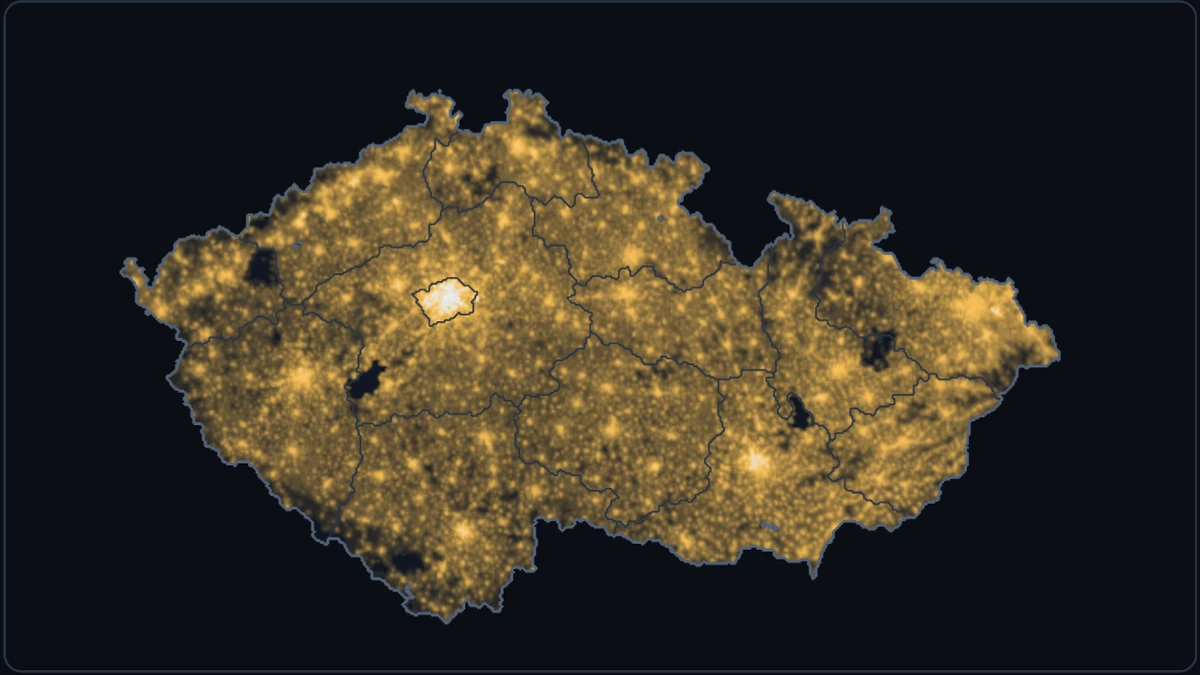
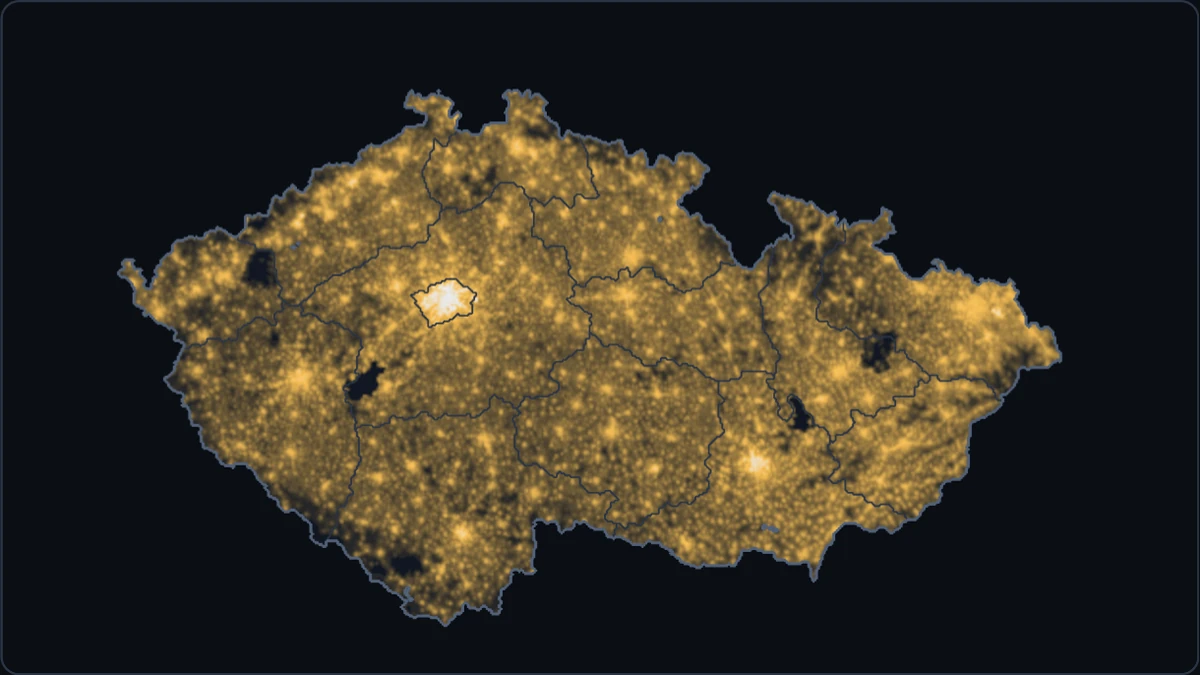
Draft the write-up, and show a cordon in the stills

diff --git a/scripts/stills.py b/scripts/stills.py
@@ -1,8 +1,8 @@
 """Renders the demo's still images from the built demo, in a real browser.
 
 - static.webp: the opening state (day 0), shown while the demo loads and without JavaScript.
-- thumb.webp and og.jpg: the default run (Munz et al. from Prague) on day 120, for the project card
-  and link previews.
+- thumb.webp and og.jpg: the default run (Munz et al. from Prague) with a ring of cordon drawn
+  around Prague before detection, on CARD_DAY, for the project card and link previews.
 
 It serves demo/dist/ locally, drives it with Playwright, and writes the images to demo/public/,
 fitted onto the dark page colour and kept under the bundle contract's size limits. Build first:
@@ -16,6 +16,7 @@ Then rebuild, so dist/ picks up the new images.
 
 import functools
 import io
+import math
 import re
 import sys
 import threading
@@ -29,7 +30,12 @@ ROOT = Path(__file__).resolve().parents[1]
 DIST = ROOT / "demo" / "dist"
 OUT = ROOT / "demo" / "public"
 BACKGROUND = (10, 14, 20)  # --color-bg, dark: the site's default theme
-CARD_DAY = 120
+CARD_DAY = 30
+# The card's cordon: a ring around Prague, in cells (km), drawn before detection. It holds.
+PRAGUE = (174, 139)
+RING = 55
+GRID = (511, 319)
+PADDING = 12  # the map's padding inside the stage, as in demo/src/render/map.js
 # A narrow page gets a 16:9 stage and no inset chart; this scale makes it about 1200 px wide.
 VIEWPORT = {"width": 540, "height": 1400}
 SCALE = 2.4
@@ -69,6 +75,28 @@ def save(image, name, fmt, limit, **options):
     print(f"{name}: {image.width}×{image.height}, quality {quality}, {buffer.tell() / 1000:.1f} KB")
 
 
+def draw_ring(page):
+    """Draws the card's cordon with the mouse: a closed ring of RING km around Prague."""
+    page.get_by_label("Draw cordon").check()
+    stage = page.locator(".dk-stage-content")
+    stage.scroll_into_view_if_needed()
+    box = stage.bounding_box()
+    scale = min((box["width"] - 2 * PADDING) / GRID[0], (box["height"] - 2 * PADDING) / GRID[1])
+    x0 = box["x"] + (box["width"] - GRID[0] * scale) / 2
+    y0 = box["y"] + (box["height"] - GRID[1] * scale) / 2
+    points = [
+        (x0 + (PRAGUE[0] + 0.5 + RING * math.cos(a)) * scale, y0 + (PRAGUE[1] + 0.5 + RING * math.sin(a)) * scale)
+        for a in (2 * math.pi * k / 72 for k in range(73))
+    ]
+    page.mouse.move(*points[0])
+    page.mouse.down()
+    for point in points[1:]:
+        page.mouse.move(*point, steps=2)
+    page.mouse.up()
+    page.get_by_label("Draw cordon").uncheck()
+    page.mouse.move(0, 0)
+
+
 def main():
     channel = sys.argv[1] if len(sys.argv) > 1 else "msedge"
     if not (DIST / "index.html").exists():
@@ -85,10 +113,13 @@ def main():
         opening = page.locator(".dk-stage").screenshot()
         page.close()
 
-        # The card: the default run on CARD_DAY, paused there.
+        # The card: the default run with a ring around Prague, on CARD_DAY, paused there.
         page = browser.new_page(viewport=VIEWPORT, device_scale_factor=SCALE)
         page.goto(url)
         page.wait_for_function(READY, timeout=30000)
+        page.get_by_role("button", name="Pause").click()
+        draw_ring(page)
+        page.get_by_role("button", name="Play").click()
         page.get_by_label("Speed").select_option(label="4×")
         page.wait_for_function(
             f"+(/Day (\\d+)/.exec(document.querySelector('.dk-status').textContent) || [0, 0])[1] >= {CARD_DAY}",

diff --git a/docs/writeup.md b/docs/writeup.md
@@ -1,0 +1,71 @@
+# Quantifying the Quarantine
+
+A zombie outbreak on a population map of Czechia, one square kilometre to a pixel. The outbreak starts in Prague, Brno or Ostrava. Nobody notices it for a week. Then one crew starts building whatever cordons you have drawn, and the demo counts how many people that saves compared with doing nothing.
+
+## The model
+
+The outbreak follows the humans–zombies–removed (SZR) model of Munz, Hudea, Imad and Smith? (2009). Humans (S) are bitten and become zombies (Z). Humans destroy zombies, which join the removed (R). The removed can rise again as zombies. The paper also has births and natural deaths; the demo leaves them out, since a run lasts a year.
+
+The paper's population is well mixed: everyone can meet everyone. On the map, every square kilometre runs the same equations, and people move between neighbouring squares:
+
+```
+∂S/∂t = −β S Z + ∇·(χ S ∇z)              humans are bitten, and flee from zombies
+∂Z/∂t =  β S Z − α S Z + ζ R + D ΔZ       zombies bite, are destroyed, rise and wander
+∂R/∂t =  α S Z − ζ R                      where z = Z / (S + Z) is the zombie share
+```
+
+Three choices shape what happens.
+
+- **Densities.** S, Z and R are people per square kilometre, and encounters are mass action (βSZ), so crowded places fall faster. In Prague's most crowded square kilometre, about 4,900 people, one zombie bites about 46 people a day at the paper's rate. Cities fall within days; the countryside holds out for weeks.
+- **Movement.** Zombies wander at random (diffusion, D). Humans flee from squares where zombies are a larger share of everyone walking around (χ). Using the share rather than the number of zombies keeps the flight bounded however dense the zombies get.
+- **A cutoff.** In a square kilometre with fewer than one zombie, zombies can't bite. Without this, the equations spread tiny fractions of a zombie everywhere, those fractions grow, and no cordon could hold: a thousandth of a zombie would seep through any gap and start again on the other side. Brunet and Derrida (1997) studied this kind of cutoff for spreading fronts. It stands in for the fact that zombies come whole.
+
+The strains are illustrative settings, not estimates. *Munz et al. (2009)* uses the paper's rates (β = 0.0095, α = 0.005, ζ = 0.0001), reading its population of 500 as 500 people per square kilometre. That reading is a judgement call: the paper counts people in a well-mixed group, not per area. *Shamblers* are slower, *Frenzied* are faster, and *Risers* lose most fights but rise again within days.
+
+Each step of a tenth of a day applies the bites, the wandering, the fleeing and a clean-up, in that order. The bites use an exponential form that can't push any count below zero. The wandering step is kept at D·dt ≤ 0.2, below the textbook stability limit of 0.25: at that limit a checkerboard pattern flips sign every step without dying away, and it showed up on the map as hatching. The browser's solver is a port of a NumPy reference model, and its tests check that the two agree to within about 1 part in 10¹⁴.
+
+## The map
+
+The population is WorldPop's 2020 estimate for the Czech Republic at 30 arc-seconds, adjusted to the UN's national total. Those cells aren't square kilometres. At 50°N, 30 arc-seconds is about 0.93 km north to south but only 0.60 km east to west, so a cell covers about 0.55 km². Treating each cell as a square kilometre would count 19.3 million people instead of 10.75 million, and stretch the map sideways. The demo resamples the data onto an equal-area 1 km grid (ETRS89-LAEA), which keeps the total exactly. Region and national borders come from Natural Earth.
+
+## The quarantine
+
+The outbreak is hidden until day 7: until then the map shows nothing amiss. You can plan at any time, by drawing cordons freehand or by sealing whole regions, but one crew builds everything, in the order you planned it, at 40 km a day from day 7.
+
+On the grid, people and zombies move between neighbouring squares across the edge they share. So a cordon is a chain of square edges, and each edge is 1 km of fence. A freehand stroke is snapped onto the grid lines, so it has no gaps, and nothing crosses it once it's built. Sealing a region closes its borders with the other regions, but not its national border: zombies that cross into Germany, Poland, Austria or Slovakia leave the model, counted as exported.
+
+The same outbreak with no quarantine runs alongside, which is how the demo knows how many people your quarantine saved. It also counts the people you sealed in: those inside an area cut off from the rest of the country while it held zombies able to bite, at the moment it closed.
+
+## What the trials showed
+
+The detection day and the crew's speed were chosen by trial, with a plan drawn the moment the outbreak is detected: a ring around the starting city, some margin beyond the visible outbreak, or a straight line across the country beyond it. Like the strains, these settings are illustrative.
+
+- **Cities fall before anyone notices.** At the paper's rates, 1.43 million people have been bitten by day 3, more than live in Prague itself (1.34 million on this map). By day 7, zombies are 17 to 44 km from where they started, depending on the city and the strain. Sealing the starting region holds around Ostrava against every strain except Frenzied, around Brno only against Risers, and around Prague never: Prague's own region is only about 13 km in radius.
+- **The crew has to outbuild the front about eight times over.** A ring that follows the grid lines around a circle of radius r is 8r long, as long as the square around the circle. The front then moves about 1.5 km a day at the paper's rates and 3.3 km a day for Frenzied zombies (measured from Prague). At 40 km a day, a ring around Prague holds the paper's strain if it starts at least 20 km beyond the visible outbreak, and then 8.2 million people survive. Frenzied zombies need a ring 65 km out, which saves 5.2 million: about as many as a straight line across the country that gives up the west.
+- **All or nothing.** Every ring either held completely or failed completely. When one failed, only 20,000 to 60,000 people were left on day 365, about as many as with no quarantine.
+- **Geography matters.** Ostrava sits in a corner against Poland and Slovakia, so half of any ring around it lies outside Czechia and costs nothing. Every strain can be contained there. Prague, in the middle, is the hard case.
+
+Survivors on day 365, out of 10.75 million, with the plan drawn on day 7:
+
+| Strain, city | Narrowest ring that held | A ring 10–20 km tighter | Line across the country | No quarantine |
+| --- | --- | --- | --- | --- |
+| Munz et al., Prague | 20 km out: 8.17M | 10 km out: 0.02M | 5.33M | 0.02M |
+| Frenzied, Prague | 65 km out: 5.17M | 45 km out: 0.06M | 5.08M | 0.02M |
+| Frenzied, Brno | 30 km out: 8.96M | 20 km out: 0.02M | 6.54M | 0.02M |
+| Frenzied, Ostrava | 10 km out: 9.56M | | 8.91M | 0.02M |
+
+These trials are a best case: the simulated planner draws a perfect circle the moment the outbreak shows. At 1×, each second spent drawing costs two days, unless the run is paused.
+
+## Limits
+
+- The rates, the detection day and the crew's speed are illustrative, chosen so a quarantine can work but has to be quick. They aren't estimates of anything.
+- The model is deterministic. The same plan always gives the same result: there is no luck, and no lone zombie slipping through.
+- Nobody is born or dies of other causes, humans never leave Czechia, and zombies that cross the border are counted but not followed.
+- Humans only flee. They don't commute, travel or organise, and at 1 km a town is a handful of squares.
+
+## Credits
+
+- Munz, P., Hudea, I., Imad, J. and Smith?, R. J. (2009). [When zombies attack!: Mathematical modelling of an outbreak of zombie infection](https://loe.org/images/content/091023/Zombie%20Publication.pdf). In *Infectious Disease Modelling Research Progress*, pp. 133–150. Nova Science.
+- Brunet, É. and Derrida, B. (1997). [Shift in the velocity of a front due to a cutoff](https://arxiv.org/abs/cond-mat/0005362). *Physical Review E* 56, 2597–2604.
+- Population: [WorldPop](https://dx.doi.org/10.5258/SOTON/WP00675), Czech Republic 2020, UN-adjusted, 1 km ([CC BY 4.0](https://creativecommons.org/licenses/by/4.0/)). WorldPop (www.worldpop.org - School of Geography and Environmental Science, University of Southampton; Department of Geography and Geosciences, University of Louisville; Departement de Geographie, Universite de Namur) and Center for International Earth Science Information Network (CIESIN), Columbia University (2018). Global High Resolution Population Denominators Project - Funded by The Bill and Melinda Gates Foundation (OPP1134076).
+- Borders: [Natural Earth](https://www.naturalearthdata.com/), 1:10m (public domain).

diff --git a/README.md b/README.md
@@ -14,7 +14,7 @@ The model is the humans–zombies–removed (SZR) model of Munz et al. (2009), r
 | [`src/zombie_outbreak/`](src/zombie_outbreak/) | Python: the data prep that builds the demo's population grid, and `model.py`, the reference implementation of the SZR model that the demo's solver is a port of. |
 | [`tests/`](tests/) | Python tests, and `fixtures/szr.json`: reference runs that the demo's solver must reproduce. |
 | [`Data/`](Data/) | Source data: WorldPop population density and Natural Earth boundaries. Its README lists sources and licences. |
-| [`docs/`](docs/) | The plan, and later the write-up. |
+| [`docs/`](docs/) | The plan, and the draft write-up for the site. |
 | [`scripts/`](scripts/) | `stills.py`, which renders the demo's still images from the built demo in a real browser. |
 | [`legacy/`](legacy/) | The original 2023 notebooks, kept for reference. |
 
